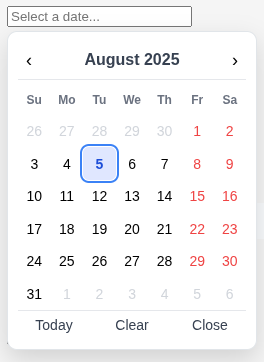
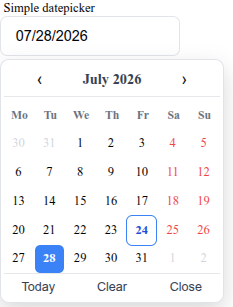
doc screenshot improv

diff --git a/docs/example.html b/docs/example.html
@@ -1,0 +1,53 @@
+<html>
+<head>
+<link href="../src/css/fdatepicker.min.css" rel="stylesheet" type="text/css">
+<style>
+input {
+    field-sizing: content;
+}
+</style>
+<script src="../fdatepicker.min.js"></script>
+</head>
+
+<body>
+&nbsp;&nbsp;Simple datepicker<br>
+&nbsp;<input type="text" class="fdatepicker-input" id="example" placeholder="Select a date" >
+<script>
+new FDatepicker(document.getElementById('example'), {
+    todayButton: true,
+    clearButton: true,
+    closeButton: true,
+    timepicker: false,
+    format: 'm/d/Y',
+});
+</script>
+<br>
+<br>
+&nbsp;&nbsp;Rangepicker with time<br>
+&nbsp;<input type="text" class="fdatepicker-input" id="example2" placeholder="Select a date" >
+<script>
+new FDatepicker(document.getElementById('example2'), {
+    todayButton: true,
+    clearButton: true,
+    closeButton: true,
+    timepicker: true,
+    fieldsizing: true,
+    range: true,
+});
+</script>
+<br>
+<br>
+&nbsp;&nbsp;Multiple date selection<br>
+&nbsp;<input type="text" class="fdatepicker-input" id="example3" placeholder="Select a date" >
+<script>
+new FDatepicker(document.getElementById('example3'), {
+    todayButton: true,
+    clearButton: true,
+    closeButton: true,
+    timepicker: true,
+    multiple: true,
+    fieldsizing: true,
+});
+</script>
+</body>
+</html>
